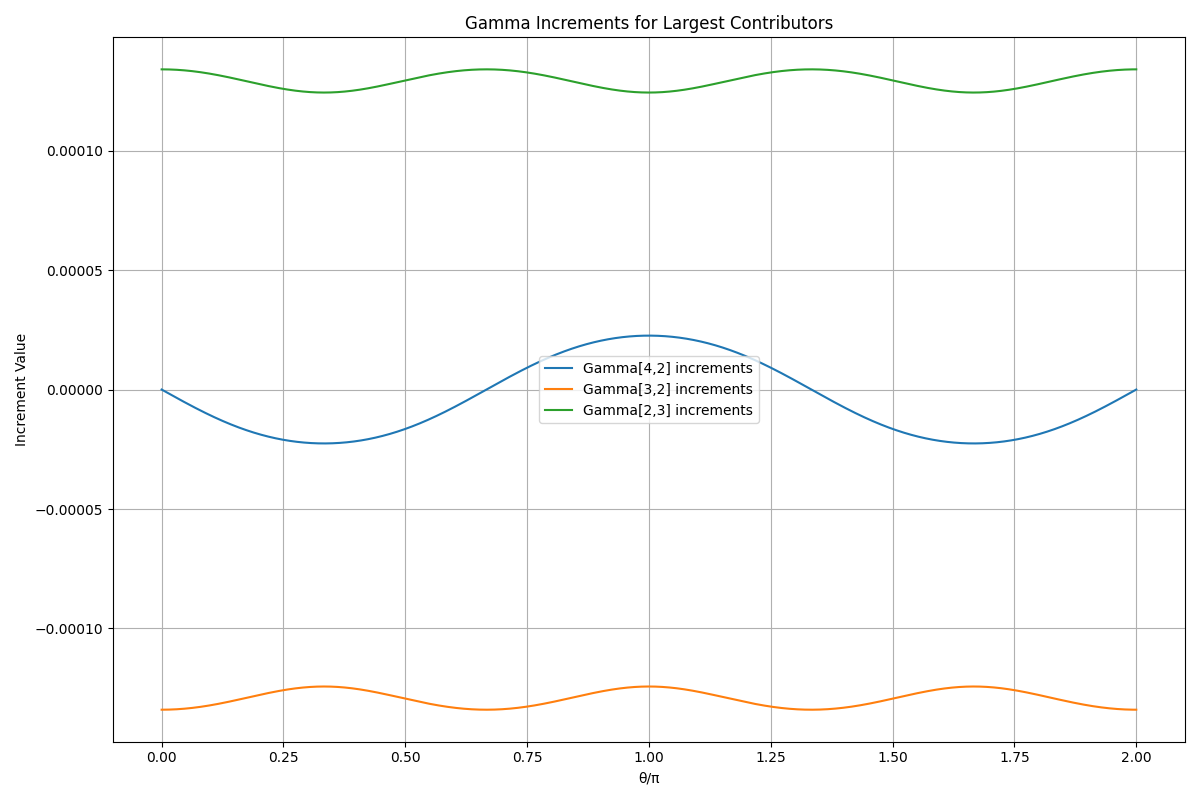
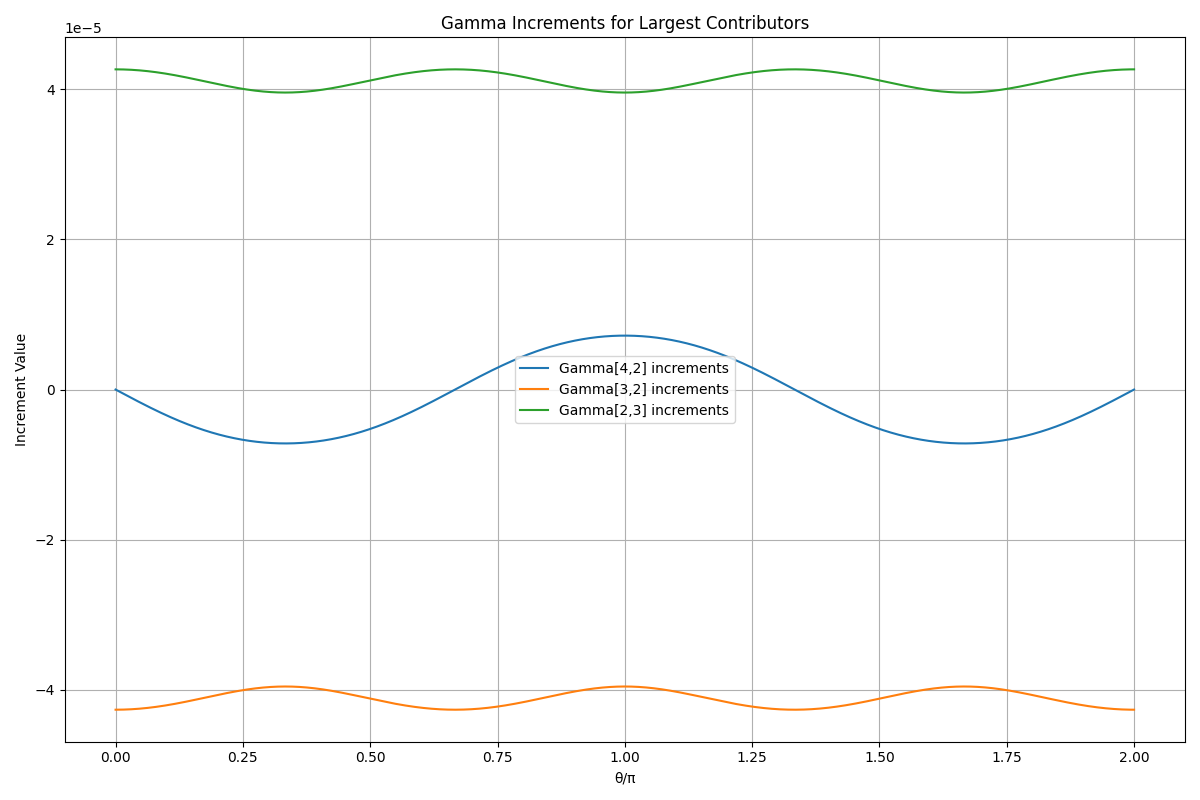
refactor: normalize gamma values by pi and remove redundant tau value handling

diff --git a/bph.py b/bph.py
@@ -494,9 +494,6 @@ def compute_berry_phase(eigvectors_all, theta_vals, continuity_check=False, OUT_
     largest_gamma_increment_loc = (0, 0, 0)
 
     for i in range(N):
-        i_prev = (i - 1)
-        i_next = (i + 1) % N
-
         for n in range(M):
             for m in range(M):
 
@@ -524,20 +521,6 @@ def compute_berry_phase(eigvectors_all, theta_vals, continuity_check=False, OUT_
 
                 grad_psi = (psi_next - psi_prev) / delta_theta
                 tau_val = 1j * np.vdot(psi_curr, grad_psi)
-                
-                # Zero out diagonal elements of tau
-                # This is a common practice in Berry phase calculations
-                #if n == m:
-                #    tau_val = 0.0 AI MADE THIS CHANGE
-                
-                # Check for unusually large imaginary values at the end of the loop
-                # This prevents the sudden jump in gamma at 2π
-                if i == N-1 and np.abs(np.imag(tau_val)) > 10.0:
-                    # Use the average of previous values instead
-                    if i > 0:
-                        prev_tau = tau[n, m, i-1]
-                        tau_val = prev_tau
-                        print(f"Limiting large tau value at (n={n+1}, m={m+1}, theta_idx={i})")
                 
                 tau[n, m, i] = tau_val
                 
@@ -601,7 +584,7 @@ def compute_berry_phase(eigvectors_all, theta_vals, continuity_check=False, OUT_
     plt.figure(figsize=(12, 8))
     for idx in gamma_flat_indices[-3:]:
         n, m = np.unravel_index(idx, gamma_final_abs.shape)
-        plt.plot(theta_vals[1:]/np.pi, gamma[n,m,1:], label=f'Gamma[{n+1},{m+1}]')
+        plt.plot(theta_vals[1:]/np.pi, gamma[n,m,1:]/np.pi, label=f'Gamma[{n+1},{m+1}]')
     plt.title('Evolution of Largest Gamma Contributors')
     plt.xlabel('θ/π')
     plt.ylabel('Gamma Value')
@@ -631,7 +614,7 @@ def compute_berry_phase(eigvectors_all, theta_vals, continuity_check=False, OUT_
         n, m = np.unravel_index(idx, gamma_final_abs.shape)
         # Calculate increments
         increments = np.diff(gamma[n,m,1:])
-        plt.plot(theta_vals[1:-1]/np.pi, increments, label=f'Gamma[{n+1},{m+1}] increments')
+        plt.plot(theta_vals[1:-1]/np.pi, increments/np.pi, label=f'Gamma[{n+1},{m+1}] increments')
     plt.title('Gamma Increments for Largest Contributors')
     plt.xlabel('θ/π')
     plt.ylabel('Increment Value')
@@ -643,7 +626,7 @@ def compute_berry_phase(eigvectors_all, theta_vals, continuity_check=False, OUT_
     
     # Plot a heatmap of the final gamma matrix
     plt.figure(figsize=(10, 8))
-    im = plt.imshow(gamma[:,:,-1], cmap='viridis')
+    im = plt.imshow(gamma[:,:,-1]/np.pi, cmap='viridis')
     plt.colorbar(im, label='Gamma Value')
     plt.title('Final Gamma Matrix Heatmap')
     plt.xlabel('m')
@@ -651,7 +634,7 @@ def compute_berry_phase(eigvectors_all, theta_vals, continuity_check=False, OUT_
     # Add text annotations
     for i in range(M):
         for j in range(M):
-            text = plt.text(j, i, f'{gamma[i,j,-1]:.1f}',
+            text = plt.text(j, i, f'{gamma[i,j,-1]/np.pi:.1f}',
                           ha="center", va="center", color="w" if abs(gamma[i,j,-1]) > 1000 else "k")
     plt.tight_layout()
     plt.savefig(f'{diag_dir}/gamma_final_heatmap.png')
@@ -722,7 +705,7 @@ def main(d, aVx, aVa, c_const, x_shift, theta_min, theta_max, omega, num_points,
         f.write("Gamma matrix report:\n===========================================\n")
         for i in range(gamma.shape[0]):
             for j in range(gamma.shape[1]):
-                f.write(f"Gamma[{i+1},{j+1}]: {gamma[i,j,-1]}\n")
+                f.write(f"Gamma[{i+1},{j+1}]: {gamma[i,j,-1]/np.pi}\n")
                 f.write(f"Tau[{i+1},{j+1}]: {np.imag(tau[i,j,-1])}\n")
             f.write("\n")
         f.write("===========================================\n")
